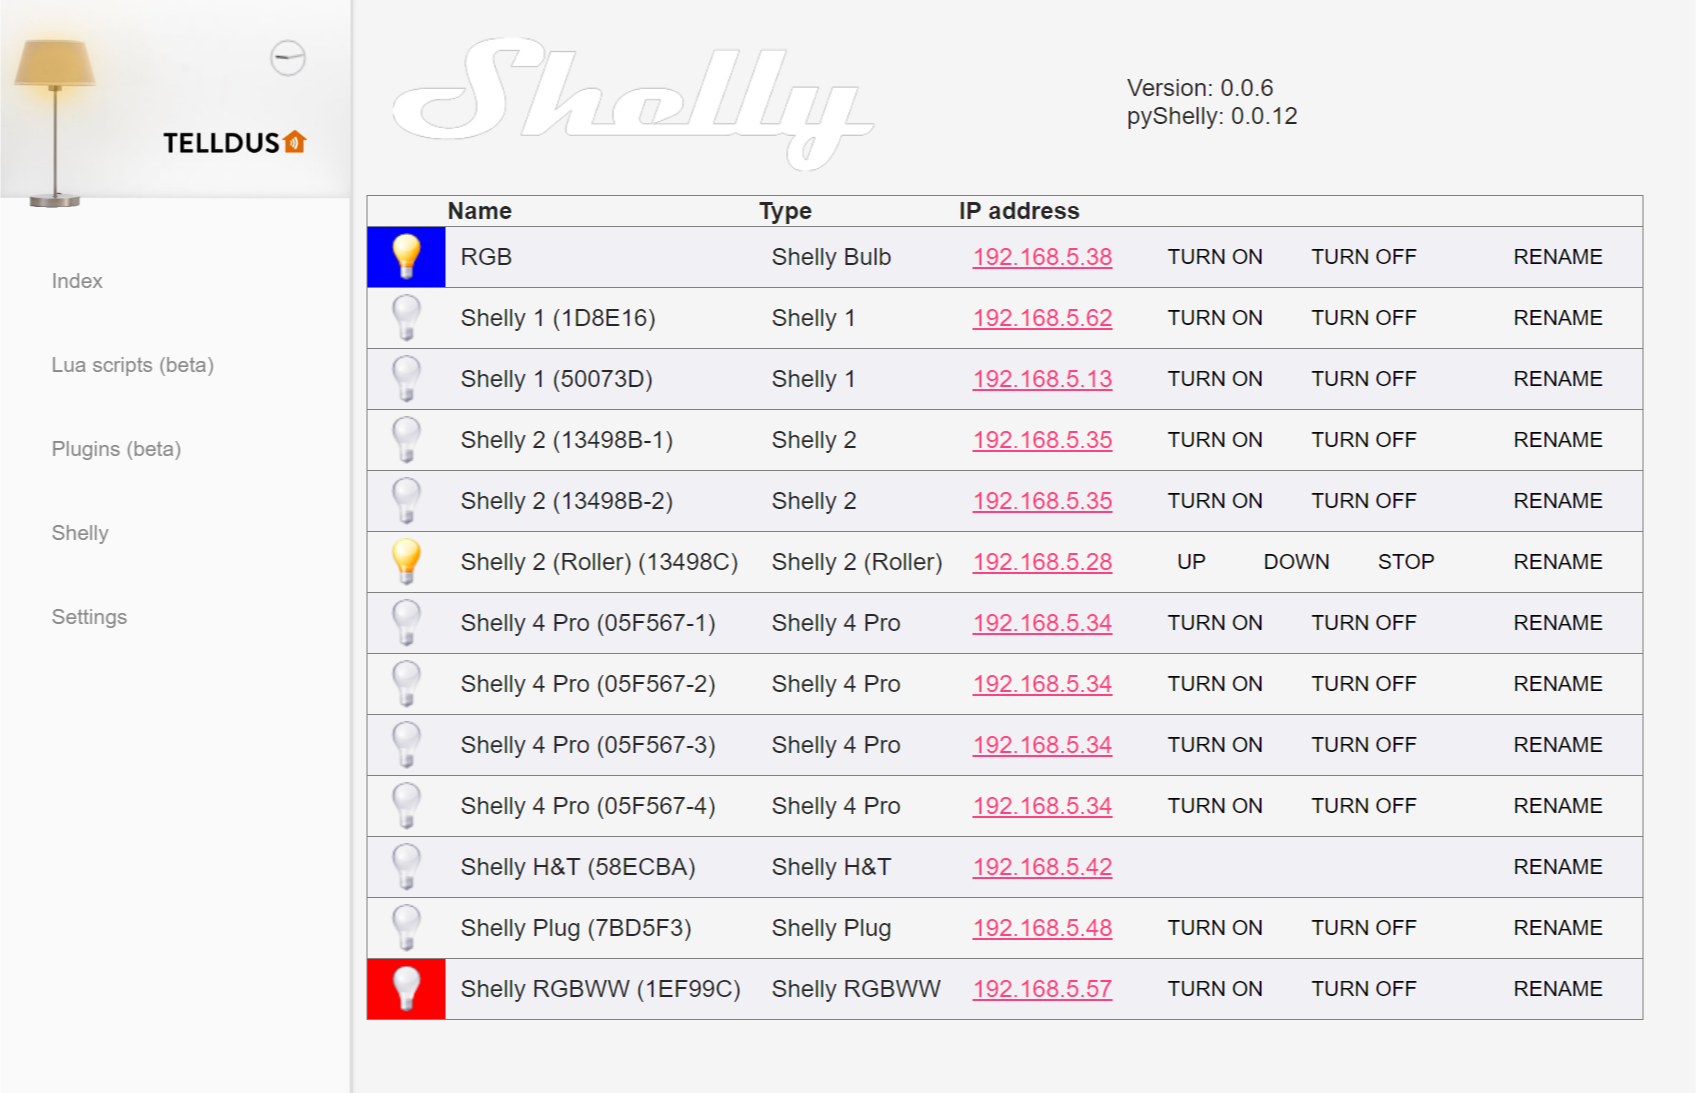
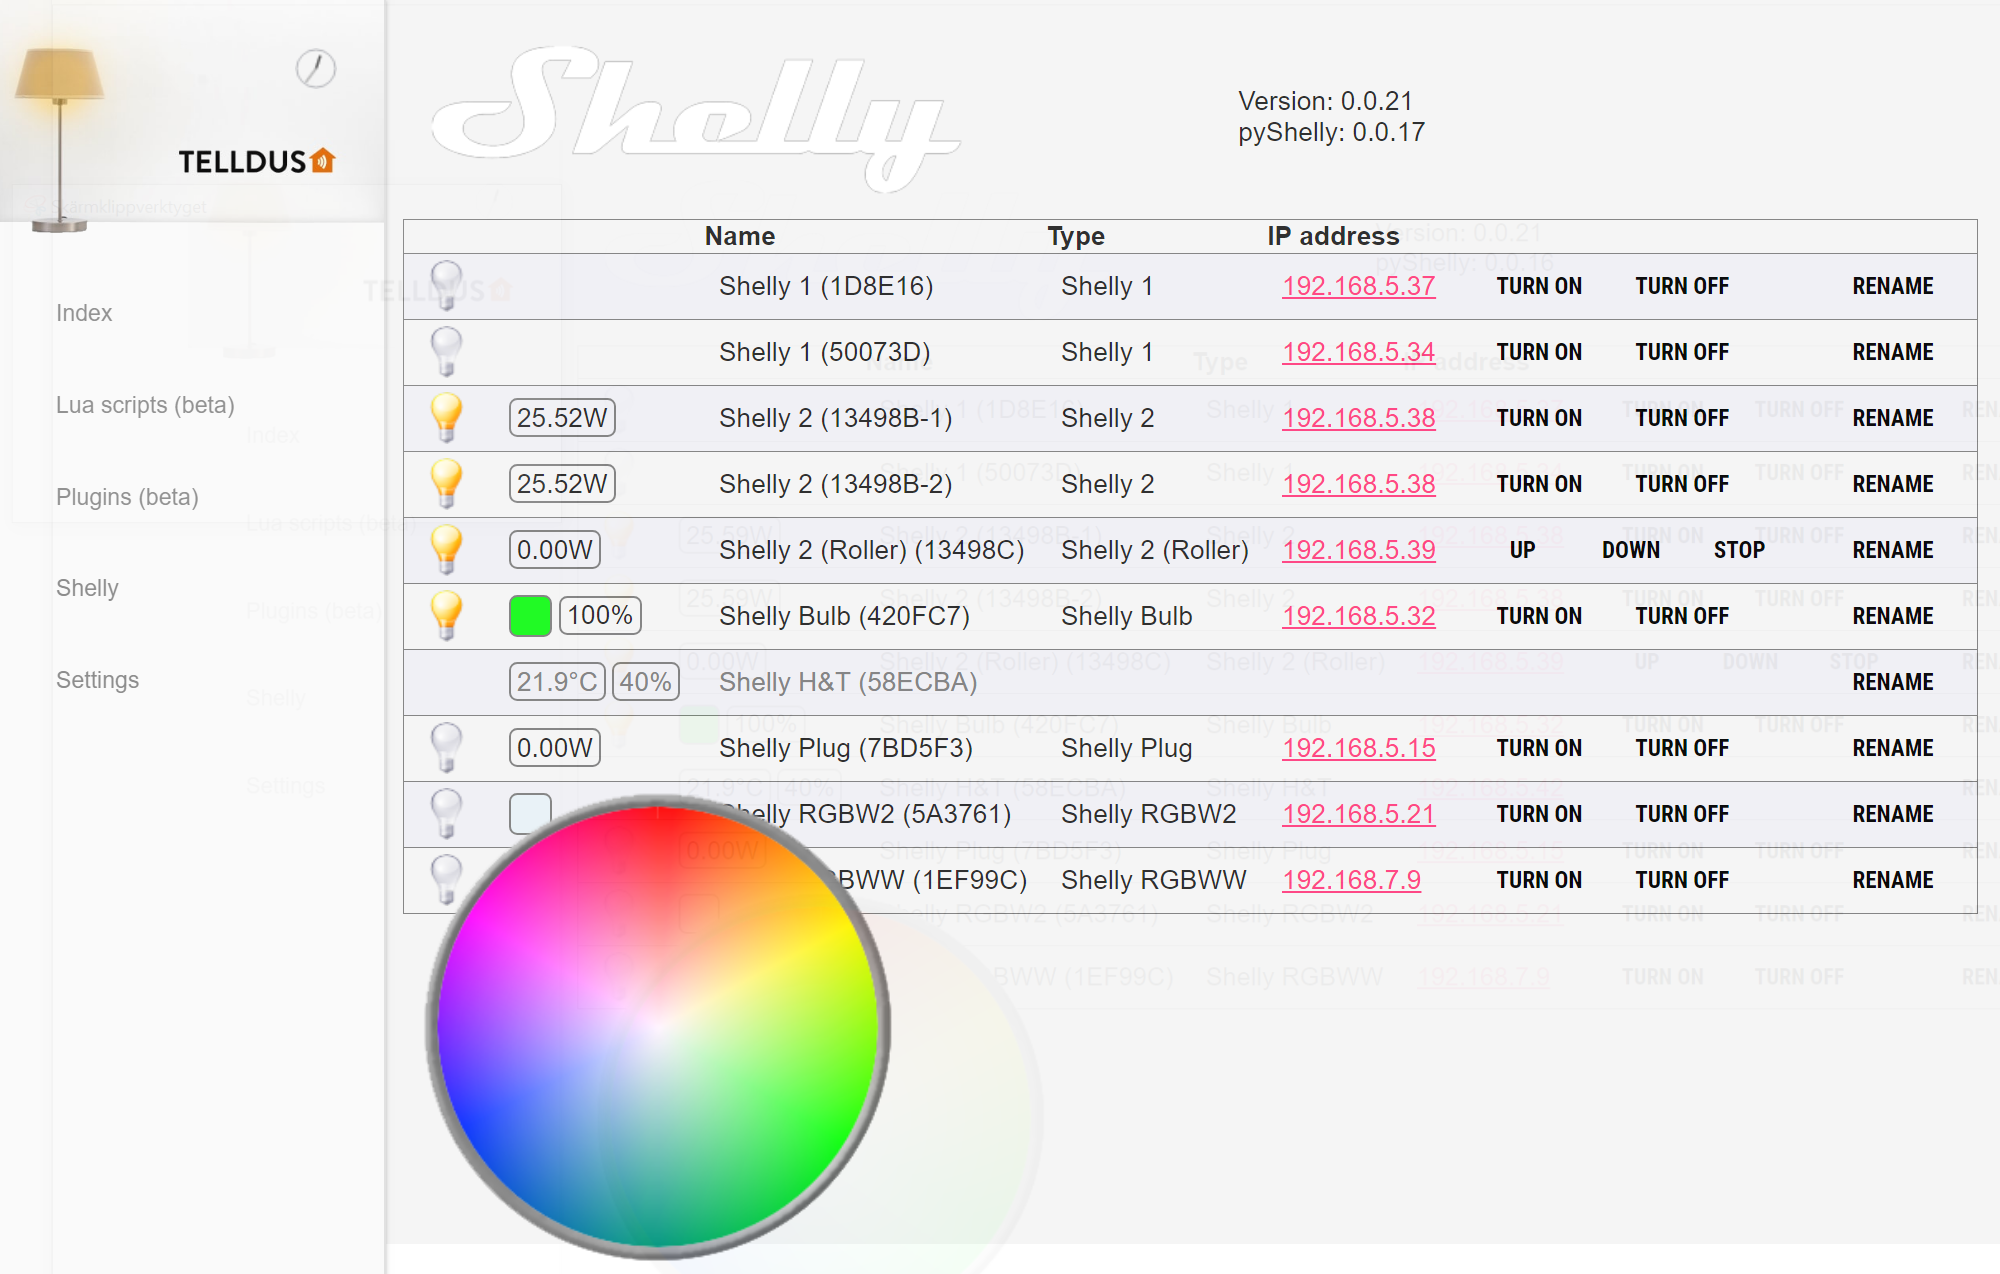
0.0.21

diff --git a/shelly/src/shelly/htdocs/style/shelly.css b/shelly/src/shelly/htdocs/style/shelly.css
@@ -65,4 +65,6 @@
     font-size: 10 px;
     border-radius: 5px;
 }
-    
+#picker {
+    position: absolute;
+}
